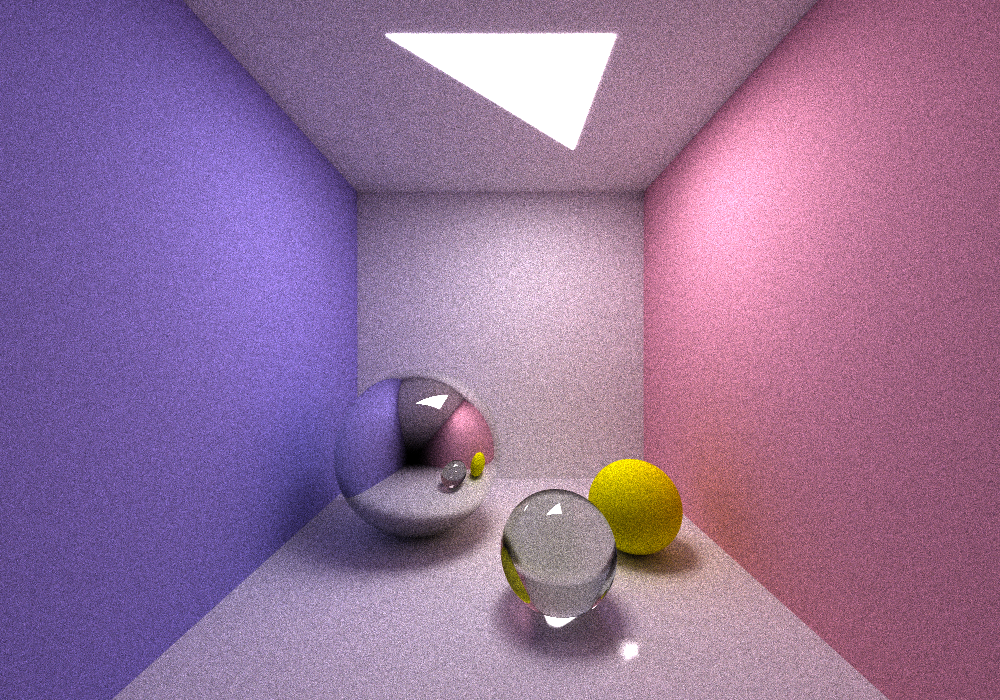
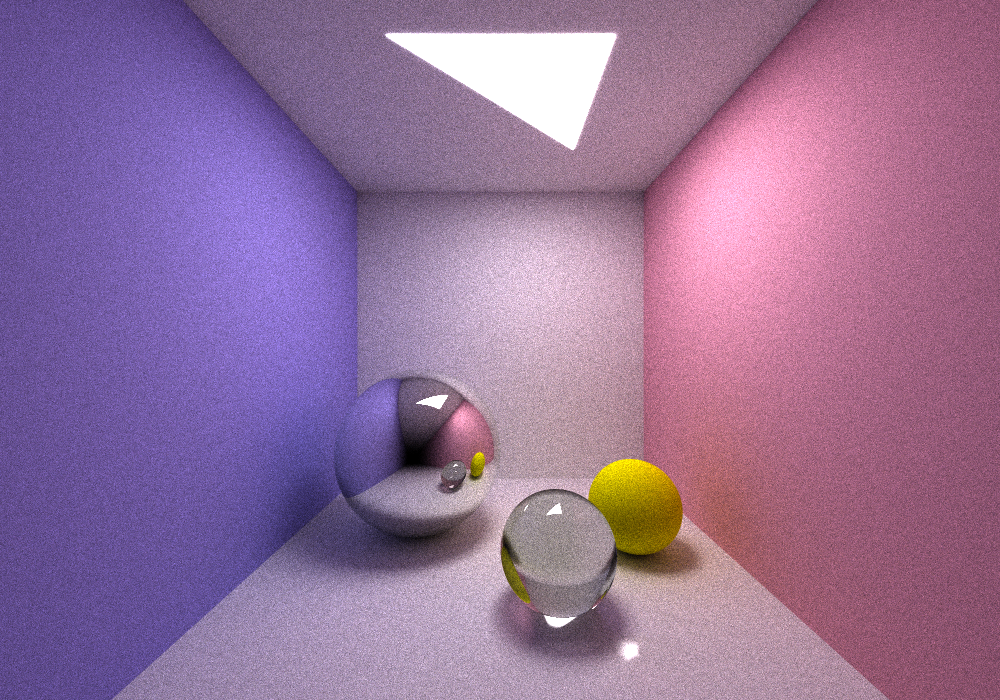
Update

Changed region(s): [[0.496, 0.42, 0.558, 0.45], [0.527, 0.36, 0.558, 0.39], [0.496, 0.99, 0.527, 1.0]]

diff --git a/src/RayTracing.cpp b/src/RayTracing.cpp
@@ -105,7 +105,7 @@ Mat<>& RayTracing::traceRay(Mat<>& RaySt, Mat<>& Ray, Mat<>& color, int level) {
 		double lightCos = 0, t;
 		faceVec *= faceVec.dot(Ray) > 0 ? -1 : 1;
 		for (int i = 0; i < PointLight.size(); i++) {
-			t = (faceVec.dot(tmp.sub(PointLight[i], RaySt).normalized()) + 1) / 2;
+			t = faceVec.dot(tmp.sub(PointLight[i], RaySt).normalized());
 			lightCos = t > lightCos ? t : lightCos;
 		} color.fill(1) *= lightCos;
 	}
